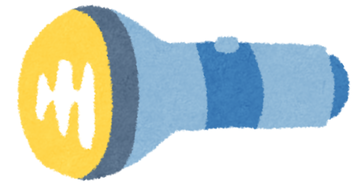
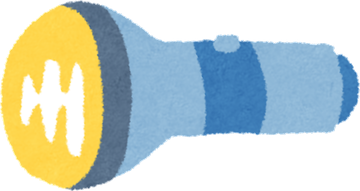
全ゲームに正解/クリア演出を追加＋懐中電灯を背景透過 (#54)
- 共通演出モジュール js/celebrate.js を追加（紙吹雪＋中央バッジ、pointer-events:none）
- 各ゲームの正解・クリア時に cgCelebrate を呼び出し（文字シャッフル/特殊算/チョンプ/川渡り/ジェスチャー/ピッグ/ハイ＆ロー/橋渡し/水汲み）
- 全ゲームページに celebrate.js を読み込み
- 懐中電灯画像（flashlight-left/right）の白背景をフラッドフィルで透過（レンズ内の白模様は保持）

https://claude.ai/code/session_01FU6qAqAdTJrmothYnKzUBB

Changed region(s): [[0.0, 0.0, 0.4583, 1.0], [0.4278, 0.1613, 1.0, 0.7527]]

diff --git a/js/celebrate.js b/js/celebrate.js
@@ -1,0 +1,78 @@
+// ============================================================
+//  正解・クリア演出（全ゲーム共通） window.cgCelebrate
+//  紙吹雪＋中央バッジ。pointer-events:none で操作を邪魔しない。
+// ============================================================
+(function(){
+  if (window.cgCelebrate) return;
+  var COLORS = ['#e0b84c','#b8907a','#3f5226','#a52a2a','#5aa0c4','#d4a896','#e8d5a0','#2c6c8c'];
+
+  function injectStyles(){
+    if (document.getElementById('cg-celebrate-style')) return;
+    var css =
+      '#cg-celebrate-layer{position:fixed;inset:0;z-index:9999;pointer-events:none;overflow:hidden;}'+
+      '.cg-confetti{position:fixed;top:-12vh;will-change:transform;animation:cg-fall linear forwards;}'+
+      '@keyframes cg-fall{0%{opacity:1;}90%{opacity:1;}100%{transform:translateY(122vh) rotateZ(var(--rot,360deg));opacity:.9;}}'+
+      '.cg-badge{position:fixed;top:38%;left:50%;transform:translate(-50%,-50%);text-align:center;'+
+        'animation:cg-pop 1.9s cubic-bezier(.2,1.3,.4,1) forwards;}'+
+      '.cg-badge-main{display:inline-block;font-family:"Noto Serif JP",serif;font-weight:700;font-size:2.2rem;'+
+        'color:#fff;background:linear-gradient(135deg,#3f5226,#5a7436);padding:14px 34px;border-radius:16px;'+
+        'box-shadow:0 14px 34px -10px rgba(63,82,38,.6);letter-spacing:.04em;}'+
+      '.cg-badge-sub{margin-top:10px;font-family:"Noto Serif JP",serif;font-size:.95rem;color:#3a2e28;'+
+        'background:rgba(255,255,255,.92);display:inline-block;padding:6px 16px;border-radius:10px;box-shadow:0 8px 20px -12px rgba(80,60,20,.5);}'+
+      '@keyframes cg-pop{0%{opacity:0;transform:translate(-50%,-50%) scale(.4);}'+
+        '18%{opacity:1;transform:translate(-50%,-50%) scale(1.12);}'+
+        '32%{transform:translate(-50%,-50%) scale(1);}'+
+        '78%{opacity:1;transform:translate(-50%,-50%) scale(1);}'+
+        '100%{opacity:0;transform:translate(-50%,-55%) scale(.95);}}'+
+      '@media(max-width:480px){.cg-badge-main{font-size:1.7rem;padding:12px 26px;}}'+
+      '@media(prefers-reduced-motion:reduce){.cg-confetti{display:none;}}';
+    var st = document.createElement('style');
+    st.id = 'cg-celebrate-style';
+    st.textContent = css;
+    document.head.appendChild(st);
+  }
+
+  function layer(){
+    var l = document.getElementById('cg-celebrate-layer');
+    if (!l){ l = document.createElement('div'); l.id = 'cg-celebrate-layer'; document.body.appendChild(l); }
+    return l;
+  }
+
+  function confetti(n){
+    injectStyles();
+    var l = layer();
+    for (var i=0;i<n;i++){
+      var p = document.createElement('div');
+      p.className = 'cg-confetti';
+      var size = 6 + Math.random()*8;
+      p.style.left = (Math.random()*100) + 'vw';
+      p.style.width = size + 'px';
+      p.style.height = (size*0.6) + 'px';
+      p.style.background = COLORS[(Math.random()*COLORS.length)|0];
+      p.style.animationDuration = (1.4 + Math.random()*1.4) + 's';
+      p.style.animationDelay = (Math.random()*0.25) + 's';
+      p.style.setProperty('--rot', (Math.random()*1080 - 540) + 'deg');
+      if (Math.random() < 0.5) p.style.borderRadius = '50%';
+      l.appendChild(p);
+      (function(el){ setTimeout(function(){ el.remove(); }, 3400); })(p);
+    }
+  }
+
+  function badge(text, sub){
+    injectStyles();
+    var l = layer();
+    var b = document.createElement('div');
+    b.className = 'cg-badge';
+    b.innerHTML = '<div class="cg-badge-main">' + (text || '正解！') + '</div>' +
+                  (sub ? '<div class="cg-badge-sub">' + sub + '</div>' : '');
+    l.appendChild(b);
+    setTimeout(function(){ b.remove(); }, 2000);
+  }
+
+  // 大きめの正解/クリア演出（紙吹雪＋バッジ）
+  function win(text, sub){ confetti(90); badge(text || '正解！', sub || ''); }
+  // 軽い正解演出（紙吹雪のみ・連続正解向け）
+  function correct(){ confetti(26); }
+
+  window.cgCelebrate = { win: win, correct: correct, confetti: confetti, badge: badge };
+})();

diff --git a/js/bridge.js b/js/bridge.js
@@ -91,6 +91,7 @@
         $('optimal').textContent=optimal.time;
         if(elapsed===optimal.time){ $('msg').textContent=`全員わたり切った！ ${elapsed}分 — 最短ぴったり！🎉`; $('msg').className='msg good'; }
         else { $('msg').textContent=`全員わたり切った！ ${elapsed}分（最短は ${optimal.time}分）`; $('msg').className='msg good'; }
+        window.cgCelebrate && cgCelebrate.win('クリア！', `${elapsed}分で全員ゴール`);
       }
     }
     function log(t){ const d=document.createElement('div'); d.textContent='・'+t; $('log').appendChild(d); $('log').scrollTop=$('log').scrollHeight; }

diff --git a/js/chomp.js b/js/chomp.js
@@ -105,6 +105,7 @@
       overlayEl.className = 'chomp-overlay show ' + kind;
       overlayEl.innerHTML = '<div class="co-title">' + title + '</div><div class="co-sub">' + sub + '</div><button class="co-btn" id="coRetry">同じ盤でもう一度</button>';
       const b = document.getElementById('coRetry'); if (b) b.addEventListener('click', reset);
+      if (kind === 'win' && window.cgCelebrate) cgCelebrate.win(title.replace(/^🎉\s*/, ''));
       if (boardEl) { boardEl.classList.remove('shake'); void boardEl.offsetWidth; if (kind === 'lose') boardEl.classList.add('shake'); }
     }
 

diff --git a/js/river.js b/js/river.js
@@ -72,6 +72,7 @@
         statusEl.textContent = 'クリア！（手数 ' + s.moves + '）';
         statusEl.className = 'river-status win'; crossBtn.disabled = true;
         showOverlay('win', 'クリア！', '全員ぶじに右岸へ渡れました（手数 ' + s.moves + '）', 'もう一度あそぶ');
+        window.cgCelebrate && cgCelebrate.win('クリア！');
       } else if (s.over) {
         statusEl.textContent = '失敗…';
         statusEl.className = 'river-status fail'; crossBtn.disabled = true;

diff --git a/js/waterjug.js b/js/waterjug.js
@@ -52,6 +52,7 @@
           ? `${target}L 完成！ ${moves}手 — 最短ぴったり！🎉`
           : `${target}L 完成！ ${moves}手（最短は ${optimal.moves}手）🎉`;
         $('msg').className='msg good';
+        window.cgCelebrate && cgCelebrate.win('正解！', `${target}L 完成`);
       }
     }
     function log(t){ const d=document.createElement('div'); d.textContent='・'+t; $('log').appendChild(d); $('log').scrollTop=$('log').scrollHeight; }

diff --git a/js/headsup.js b/js/headsup.js
@@ -113,6 +113,7 @@
         ? results.map(r => '<li><span>' + r.word + '</span><span class="' + (r.ok ? 'ok' : 'ng') + '">' + (r.ok ? '○ 正解' : '× パス') + '</span></li>').join('')
         : '<li><span style="color:var(--muted)">お題なし</span></li>';
       endEl.style.display = 'block';
+      if (score > 0 && window.cgCelebrate) cgCelebrate.win(score + '問 正解！');
       endEl.scrollIntoView({ behavior: 'smooth' });
     }
 

diff --git a/js/pig.js b/js/pig.js
@@ -168,6 +168,7 @@
       $('finalscore').textContent=players
         .slice().sort((a,b)=>b.score-a.score)
         .map(p=>`${p.name} ${p.score}点`).join(' ／ ');
+      window.cgCelebrate && cgCelebrate.win(`${winner.name} の勝ち！`);
     }
     $('again').addEventListener('click',()=>{
       players.forEach(p=>p.score=0); cur=0; turnTotal=0; die=1; justRolled=false;

diff --git a/js/highlow.js b/js/highlow.js
@@ -52,6 +52,7 @@
       if(correct){
         streak++; if(streak>best) best=streak;
         setMsg(`正解！ ${rankLabel(next.rank)} ・ ${streak} 連勝中`,'good');
+        window.cgCelebrate && (streak>=5 && streak===best ? cgCelebrate.win(`${streak} 連勝！`) : cgCelebrate.correct());
         ensureDeck(); render(true);
       }else{
         gameOver=true;

diff --git a/js/drill.js b/js/drill.js
@@ -446,6 +446,7 @@ function checkAns(){
   if(allOk){
     $('result').textContent='正解！🎉';
     $('result').className='result ok';
+    window.cgCelebrate && cgCelebrate.win('正解！');
     answered[idx]=true; $('next').disabled=false;
     $('solution').classList.add('show');
     renderSteps();

diff --git a/js/game.js b/js/game.js
@@ -89,6 +89,7 @@
         if (picked.join('') === stripped) {
           resultEl.textContent = '正解！';
           resultEl.classList.add('ok');
+          window.cgCelebrate && cgCelebrate.win('正解！');
         } else {
           resultEl.textContent = 'ちがうみたい…';
         }

diff --git a/bridge.html b/bridge.html
@@ -100,6 +100,7 @@
 
 <script src="js/cms.js"></script>
 <script src="js/script.js"></script>
+<script src="js/celebrate.js"></script>
 <script src="js/bridge.js"></script>
 </body>
 </html>

diff --git a/waterjug.html b/waterjug.html
@@ -94,6 +94,7 @@
 
 <script src="js/cms.js"></script>
 <script src="js/script.js"></script>
+<script src="js/celebrate.js"></script>
 <script src="js/waterjug.js"></script>
 </body>
 </html>
